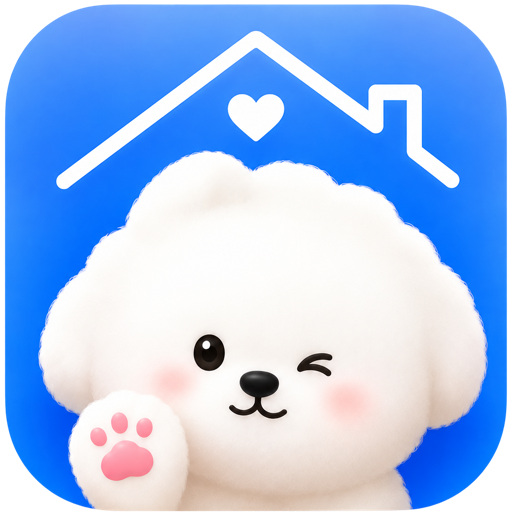
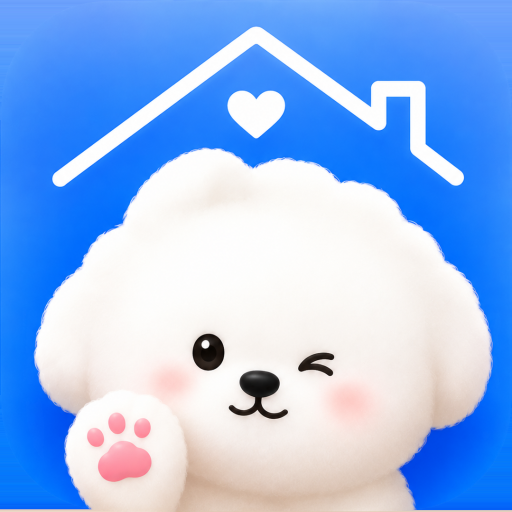
앱 아이콘 v3 — 투명 모서리 때문에 생기던 흰 테두리 제거
- 가장자리 색을 바깥으로 확장해 모서리까지 불투명하게 채움
- 180/512 정사각, 알파 없음, ?v=5

diff --git a/app/index.html b/app/index.html
@@ -4,9 +4,9 @@
 <meta charset="utf-8">
 <meta name="viewport" content="width=device-width, initial-scale=1, viewport-fit=cover">
 <title>둥지 — 돌봄 기록</title>
-<link rel="icon" href="/app-icon-180.png?v=4">
-<link rel="apple-touch-icon" sizes="180x180" href="/app-icon-180.png?v=4">
-<link rel="apple-touch-icon" sizes="512x512" href="/app-icon-512.png?v=4">
+<link rel="icon" href="/app-icon-180.png?v=5">
+<link rel="apple-touch-icon" sizes="180x180" href="/app-icon-180.png?v=5">
+<link rel="apple-touch-icon" sizes="512x512" href="/app-icon-512.png?v=5">
 <meta name="apple-mobile-web-app-capable" content="yes">
 <meta name="apple-mobile-web-app-status-bar-style" content="default">
 <meta name="theme-color" content="#ffffff">

diff --git a/app/src/ui/screens/owner.js b/app/src/ui/screens/owner.js
@@ -63,7 +63,7 @@ export function ownerInstall(state, go, rerender) {
   const step1 = () => sheet([
     el('div', { class: 'grip' }),
     el('div', { class: 'a2head' }, [
-      el('div', { class: 'appicon' }, el('img', { class: 'appimg', src: '/app-icon-180.png?v=4', alt: '' })),
+      el('div', { class: 'appicon' }, el('img', { class: 'appimg', src: '/app-icon-180.png?v=5', alt: '' })),
       el('div', { class: 'pcol' }, [
         el('div', { class: 'h', text: '홈 화면에 앱으로 추가' }),
         el('div', { class: 'sub', text: '설치하면 앱처럼 전체화면으로 열려요.' }),
